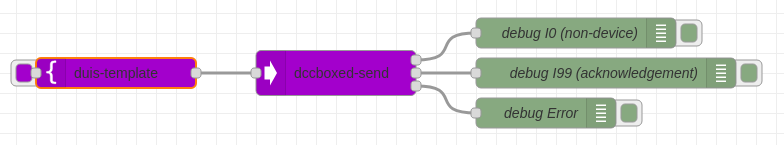
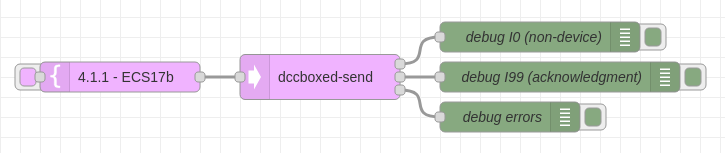
lighten node colour to improve text contrast

Changed region(s): [[0.0, 0.1103, 0.9407, 0.9103], [0.6069, 0.3862, 1.0, 0.6345]]

diff --git a/src/editor-global-settings.ts b/src/editor-global-settings.ts
@@ -1,0 +1,26 @@
+/*
+ * Created on Mon Sep 12 2022
+ *
+ * Copyright (c) 2022 Smart DCC Limited
+ *
+ * This program is free software: you can redistribute it and/or modify
+ * it under the terms of the GNU General Public License as published by
+ * the Free Software Foundation, either version 3 of the License, or
+ * (at your option) any later version.
+ *
+ * This program is distributed in the hope that it will be useful,
+ * but WITHOUT ANY WARRANTY; without even the implied warranty of
+ * MERCHANTABILITY or FITNESS FOR A PARTICULAR PURPOSE.  See the
+ * GNU General Public License for more details.
+ *
+ * You should have received a copy of the GNU General Public License
+ * along with this program.  If not, see <http://www.gnu.org/licenses/>.
+ */
+
+/**
+ * default values to be used for nodes in editor
+ */
+export const settings = {
+  color: '#f0b3ff',
+  category: 'smartdcc',
+}

diff --git a/src/gbcs-parser/gbcs-parser.editor.ts b/src/gbcs-parser/gbcs-parser.editor.ts
@@ -19,6 +19,8 @@
 
 import type { EditorRED, EditorNodeProperties } from 'node-red'
 import type { KeyDefinition, Properties } from '../gbcs-parser.properties'
+import { settings } from '../editor-global-settings'
+
 import './gbcs-parser.css'
 
 import 'jquery-mask-plugin'
@@ -27,8 +29,7 @@ declare const RED: EditorRED
 declare const $: JQueryStatic
 
 RED.nodes.registerType<Properties & EditorNodeProperties>('gbcs-parser', {
-  category: 'smartdcc',
-  color: '#a300cc',
+  ...settings,
   defaults: {
     name: { value: '' },
     server: { value: undefined, type: 'dccboxed-config', required: false },

diff --git a/src/gbcs-signer/gbcs-signer.editor.ts b/src/gbcs-signer/gbcs-signer.editor.ts
@@ -19,6 +19,8 @@
 
 import type { EditorRED, EditorNodeProperties } from 'node-red'
 import type { KeyDefinition, Properties } from '../gbcs-signer.properties'
+import { settings } from '../editor-global-settings'
+
 import './gbcs-signer.css'
 
 import 'jquery-mask-plugin'
@@ -27,8 +29,7 @@ declare const RED: EditorRED
 declare const $: JQueryStatic
 
 RED.nodes.registerType<Properties & EditorNodeProperties>('gbcs-signer', {
-  category: 'smartdcc',
-  color: '#a300cc',
+  ...settings,
   defaults: {
     name: { value: '' },
     server: { value: undefined, type: 'dccboxed-config', required: false },

diff --git a/src/duis-template/duis-template.editor.ts b/src/duis-template/duis-template.editor.ts
@@ -27,6 +27,7 @@ import type {
   TemplateDTO,
   TemplateLookupDTO,
 } from '../duis-template.properties'
+import { settings } from '../editor-global-settings'
 
 import './duis-template.css'
 
@@ -143,8 +144,7 @@ function renderTemplateDTO(template: TemplateDTO): JQuery {
 }
 
 RED.nodes.registerType<Properties & EditorNodeProperties>('duis-template', {
-  category: 'smartdcc',
-  color: '#a300cc',
+  ...settings,
   defaults: {
     name: { value: undefined, required: false },
     deafultName: { value: undefined, required: false },

diff --git a/src/dccboxed-receive/dccboxed-receive.editor.ts b/src/dccboxed-receive/dccboxed-receive.editor.ts
@@ -19,13 +19,13 @@
 
 import type { EditorRED, EditorNodeProperties } from 'node-red'
 import type { Properties } from '../dccboxed-receive.properties'
+import { settings } from '../editor-global-settings'
 
 declare const RED: EditorRED
 declare const $: JQueryStatic
 
 RED.nodes.registerType<Properties & EditorNodeProperties>('dccboxed-receive', {
-  category: 'smartdcc',
-  color: '#a300cc',
+  ...settings,
   defaults: {
     name: { value: '' },
     server: { value: '', type: 'dccboxed-config', required: true },

diff --git a/src/dccboxed-send/dccboxed-send.editor.ts b/src/dccboxed-send/dccboxed-send.editor.ts
@@ -19,13 +19,13 @@
 
 import type { EditorRED, EditorNodeProperties } from 'node-red'
 import type { Properties } from '../dccboxed-send.properties'
+import { settings } from '../editor-global-settings'
 
 declare const RED: EditorRED
 declare const $: JQueryStatic
 
 RED.nodes.registerType<Properties & EditorNodeProperties>('dccboxed-send', {
-  category: 'smartdcc',
-  color: '#a300cc',
+  ...settings,
   defaults: {
     name: { value: '' },
     server: { value: '', type: 'dccboxed-config' },

diff --git a/src/duis-parser/duis-parser.editor.ts b/src/duis-parser/duis-parser.editor.ts
@@ -19,13 +19,13 @@
 
 import type { EditorRED, EditorNodeProperties } from 'node-red'
 import type { Properties } from '../duis-parser.properties'
+import { settings } from '../editor-global-settings'
 
 declare const RED: EditorRED
 declare const $: JQueryStatic
 
 RED.nodes.registerType<Properties & EditorNodeProperties>('duis-parser', {
-  category: 'smartdcc',
-  color: '#a300cc',
+  ...settings,
   defaults: {
     name: { value: '' },
     minimal: { value: true },

diff --git a/src/duis-construct/duis-construct.editor.ts b/src/duis-construct/duis-construct.editor.ts
@@ -19,12 +19,12 @@
 
 import type { EditorRED, EditorNodeProperties } from 'node-red'
 import { Properties } from '../duis-construct.properties'
+import { settings } from '../editor-global-settings'
 
 declare const RED: EditorRED
 
 RED.nodes.registerType<Properties & EditorNodeProperties>('duis-construct', {
-  category: 'smartdcc',
-  color: '#a300cc',
+  ...settings,
   defaults: {
     name: { value: '' },
     minimal: { value: true },

diff --git a/src/duis-sign/duis-sign.editor.ts b/src/duis-sign/duis-sign.editor.ts
@@ -23,12 +23,12 @@ import type {
   EditorNodeInstance,
 } from 'node-red'
 import { Properties } from '../duis-sign.properties'
+import { settings } from '../editor-global-settings'
 
 declare const RED: EditorRED
 
 RED.nodes.registerType<Properties & EditorNodeProperties>('duis-sign', {
-  category: 'smartdcc',
-  color: '#a300cc',
+  ...settings,
   defaults: {
     name: { value: '' },
     mode: {

diff --git a/README.md b/README.md
@@ -150,10 +150,20 @@ asynchronous DUIS responses from a DCC Boxed instance. This includes:
 
 The final step of of reconciliation is used so its possible to link asynchronous
 responses with the context of the message that triggered the request. For
-example, it could link a HTTP request input with its output as the `msg` is
-preserved:
+example, it could link a HTTP request input with its output as the original
+`msg` object is preserved. The following shows this, where if a user makes a
+http request to the `/trigger` endpoint, it will start a SRV 4.1.1, and once the
+response is obtained it is sent to the http client that make the request to
+`/trigger`.
 
 ![dccboxed-receive context](images/dccboxed-receive-context.png)
+
+Please note, when the `msg` object is reconciled it is only shallow copied. E.g.
+if there are multiple `dccboxed-receive` nodes (see below), each could receive a
+copy of the same `msg.payload`, resulting in changes by one node in
+`msg.payload` being observed unexpectedly in a different flow. If a deep copy is
+required, this will need to be done in any of the nodes downstream from
+`dccboxed-receive`.
 
 It is also possible to have multiple `dccboxed-receive` nodes. This allows for
 responses of different service requests or alerts to be processed by different
